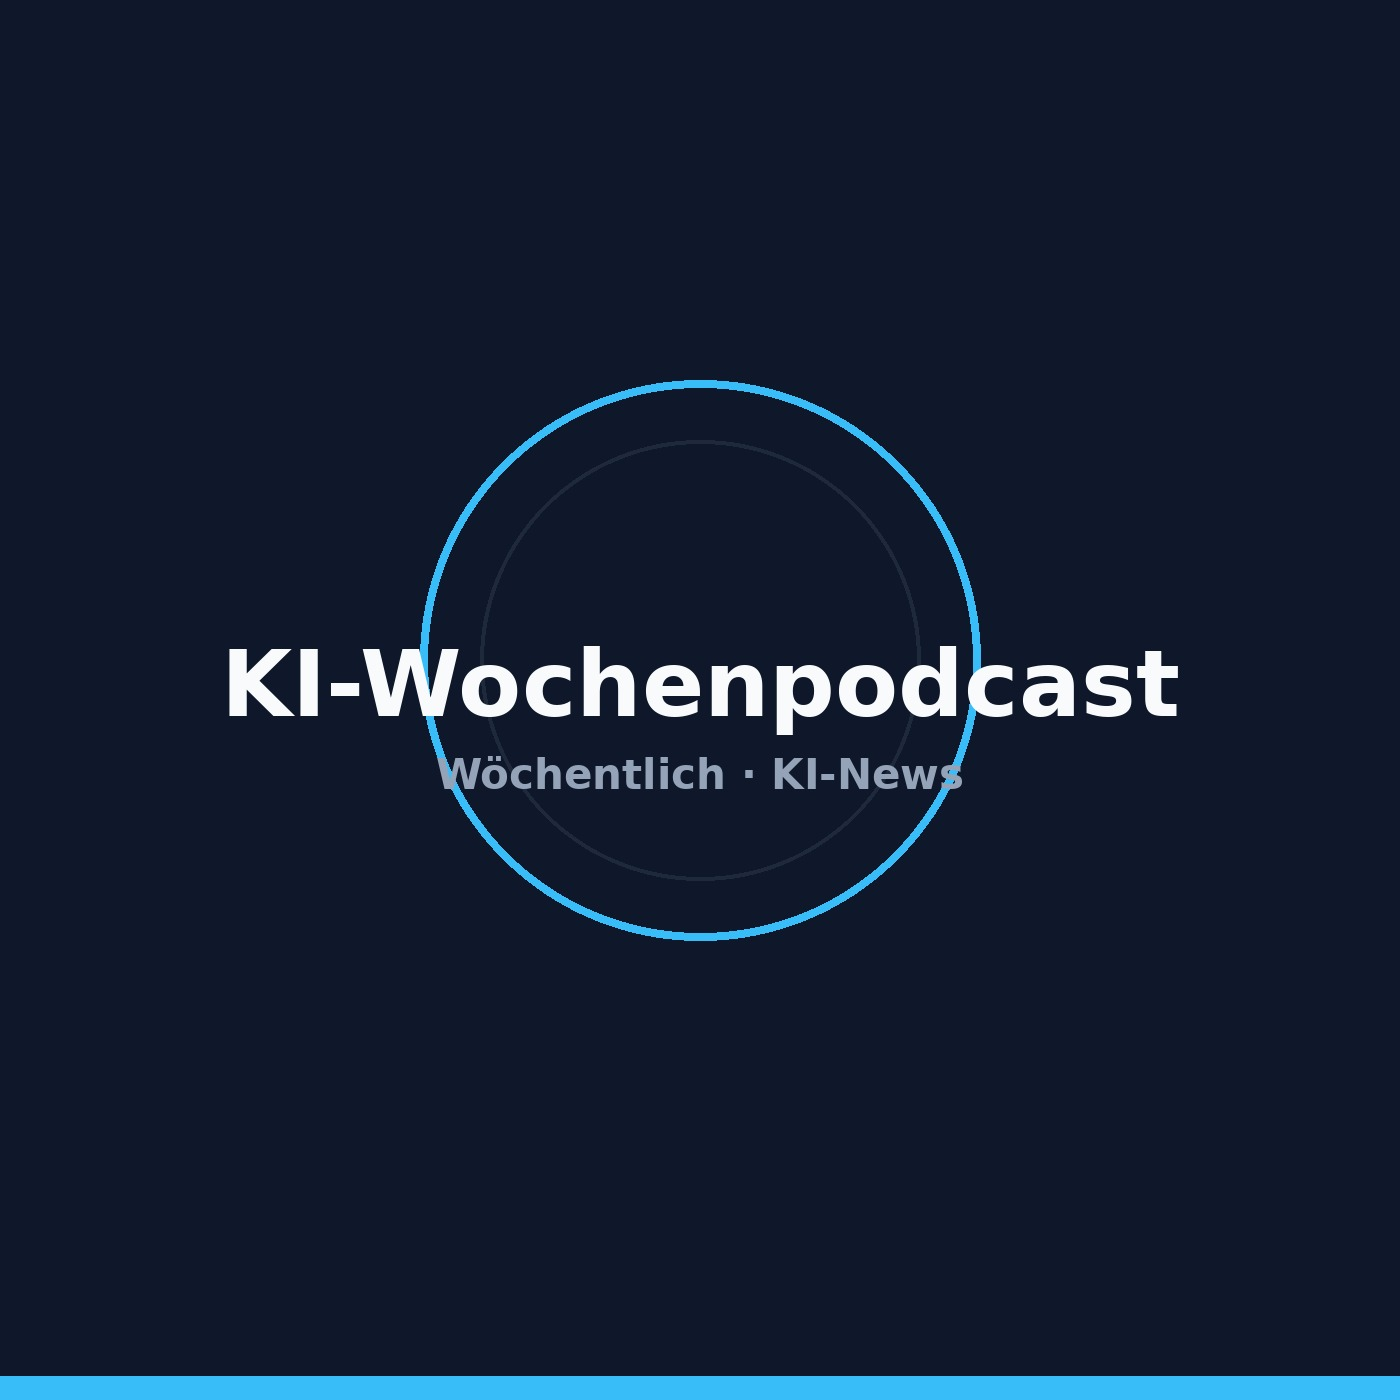
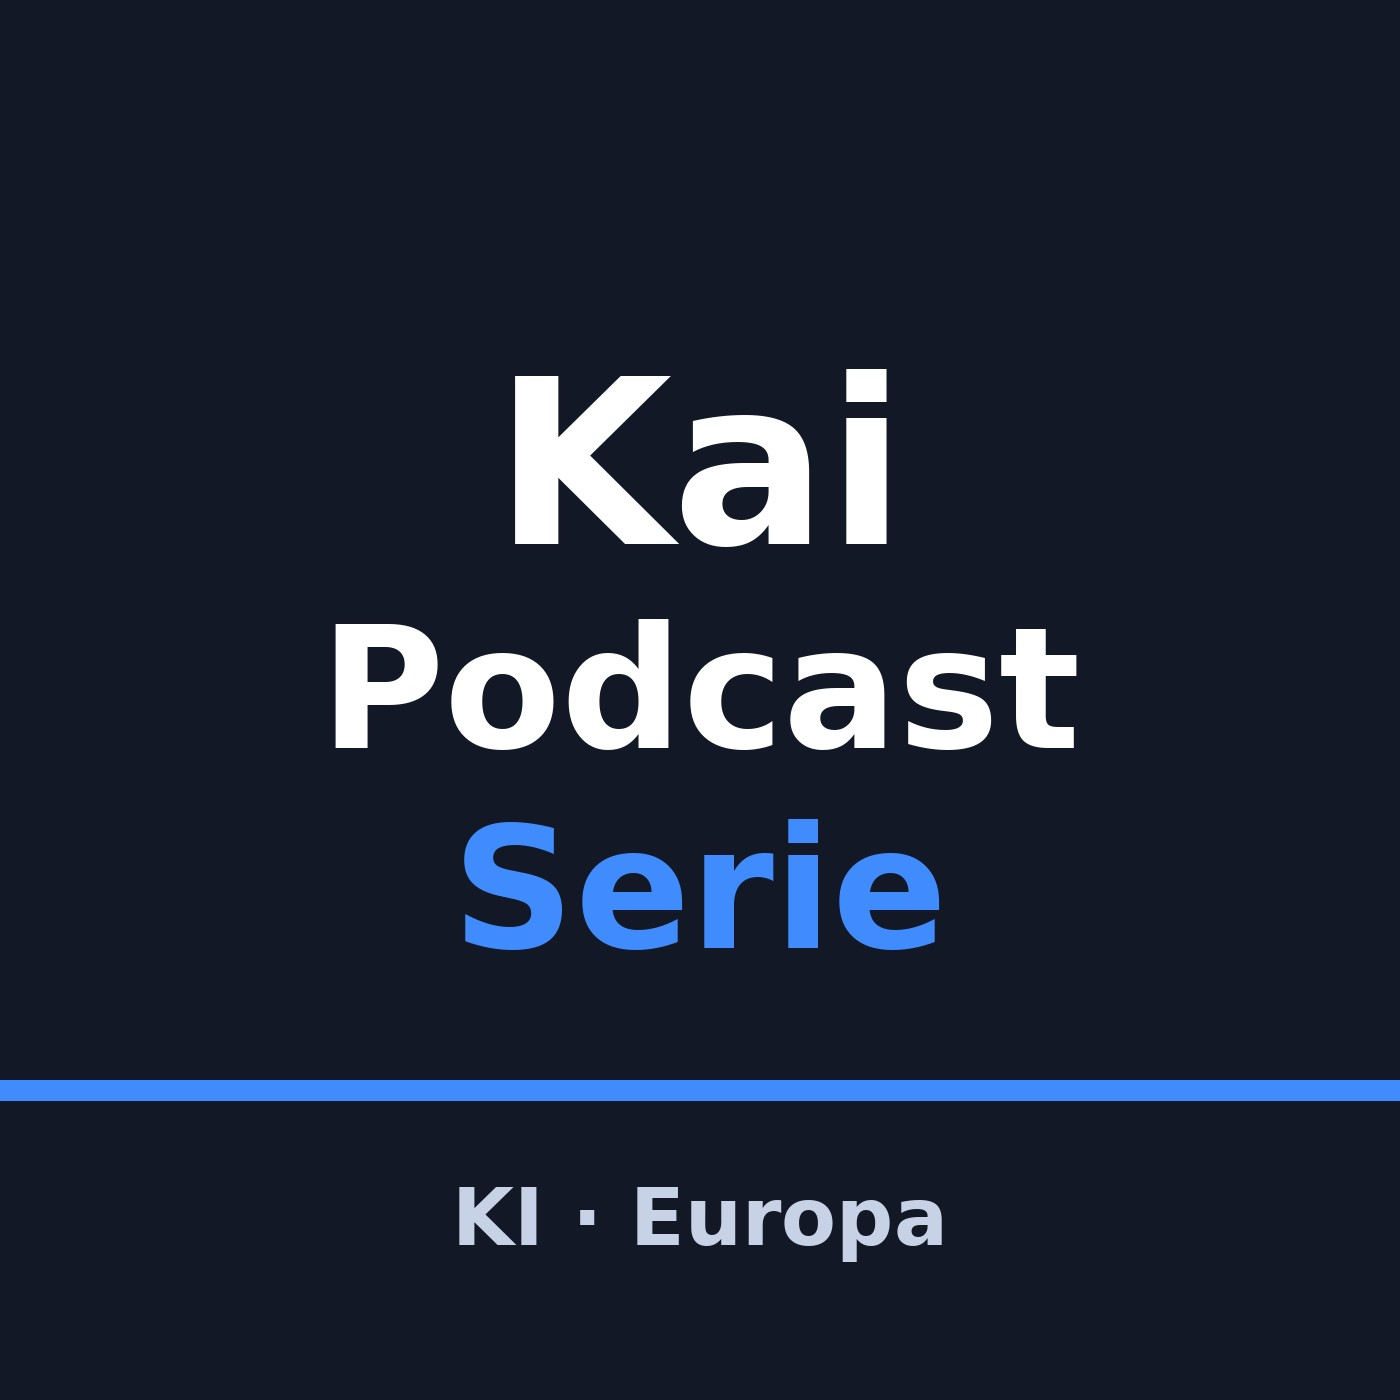
Rename show to 'Kai Podcast Serie', new cover

diff --git a/index.html b/index.html
@@ -3,7 +3,7 @@
 <head>
   <meta charset="utf-8">
   <meta name="viewport" content="width=device-width, initial-scale=1">
-  <title>KI-Wochenpodcast</title>
+  <title>Kai Podcast Serie</title>
   <style>
     body { font-family: system-ui, sans-serif; max-width: 40rem; margin: 3rem auto; padding: 0 1rem; color: #0f172a; line-height: 1.5; }
     a { color: #0369a1; }
@@ -11,7 +11,7 @@
   </style>
 </head>
 <body>
-  <h1>KI-Wochenpodcast</h1>
+  <h1>Kai Podcast Serie</h1>
   <p>Privater wöchentlicher KI-News-Podcast für Kai Hilker.</p>
   <p>RSS-Feed für Apple Podcasts („Sendung per URL folgen“):</p>
   <p><a href="feed.xml"><code>https://kai-hilker.github.io/ki-podcast/feed.xml</code></a></p>
